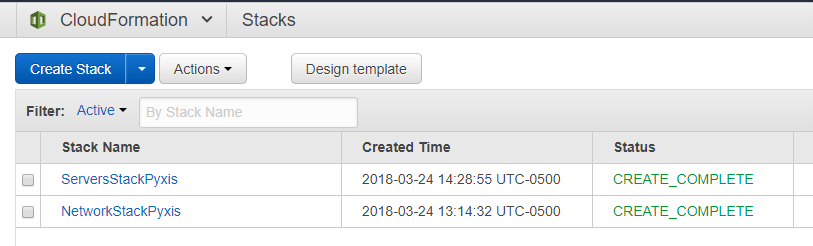
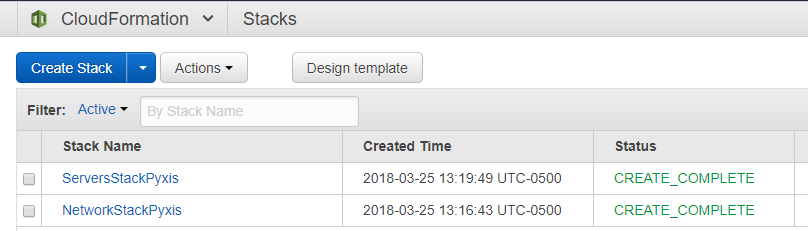
Update evidences

diff --git a/Python/PyxisAutomation.py b/Python/PyxisAutomation.py
@@ -1,8 +1,7 @@
 import boto3
 import sys
  
-def create_stack(stack_name = 'MyFirstVPC',file_path = '../CloudFormation/VPC-NotNAT.yml'):
-#def main(stack_name, file_path):
+def create_stack(stack_name,file_path):
     print("Starting stack creation")
     # open the test file from the current diectory
     template = open(file_path).read()
@@ -19,10 +18,10 @@ def create_stack(stack_name = 'MyFirstVPC',file_path = '../CloudFormation/VPC-No
 def main():
     #Create NetworkLayer
     print("Starting Network stack creation")
-    create_stack('NetworkStackPyxis',file_path = '../CloudFormation/NetworkingLayer-Pyxis.yml')
+    create_stack('NetworkStackPyxis',file_path = '../CFTemplates/NetworkingLayer-Pyxis.yml')
     #Create ServerLayer
     print("Starting Server stack creation")
-    create_stack('ServersStackPyxis',file_path = '../CloudFormation/ServersLayer-Pyxis.yml')
+    create_stack('ServersStackPyxis',file_path = '../CFTemplates/ServersLayer-Pyxis.yml')
 
 if __name__ == "__main__":
     main()
